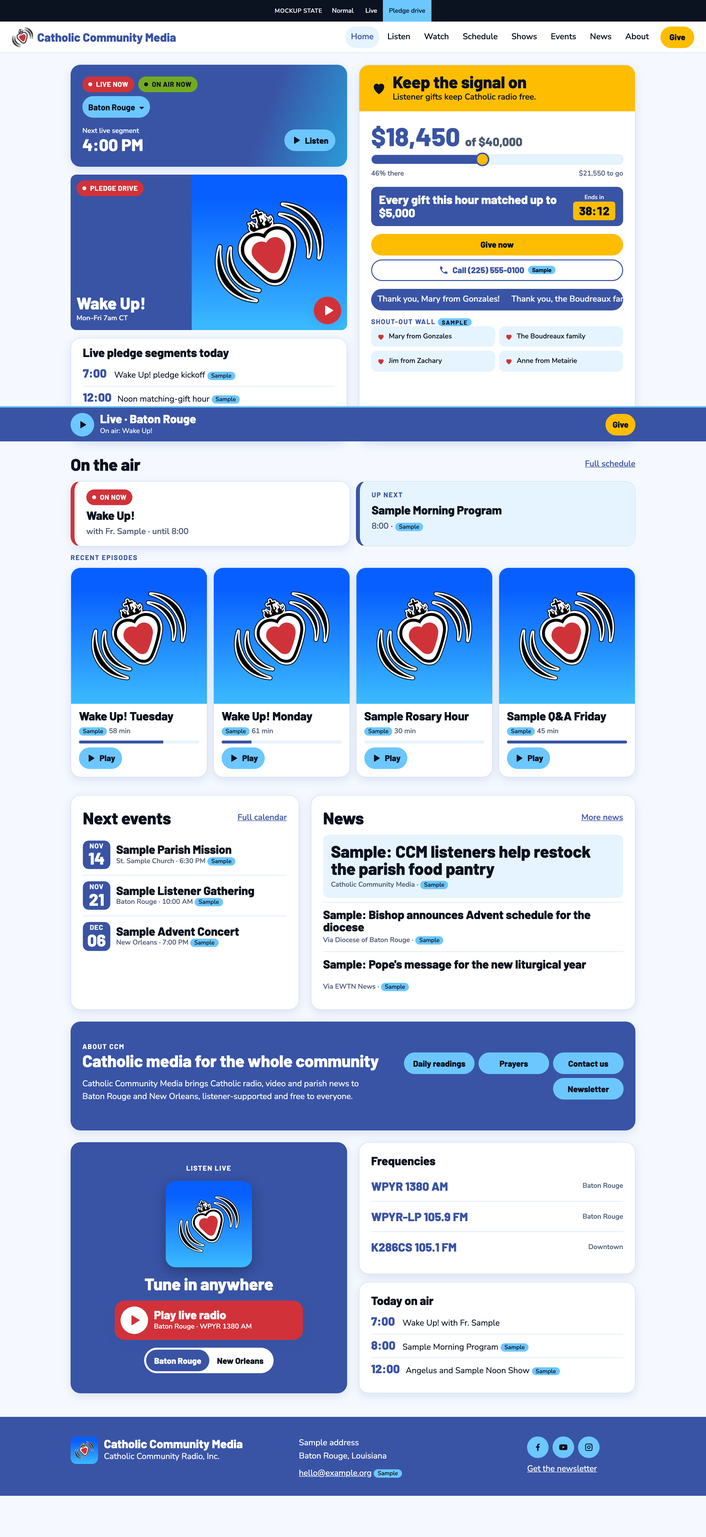
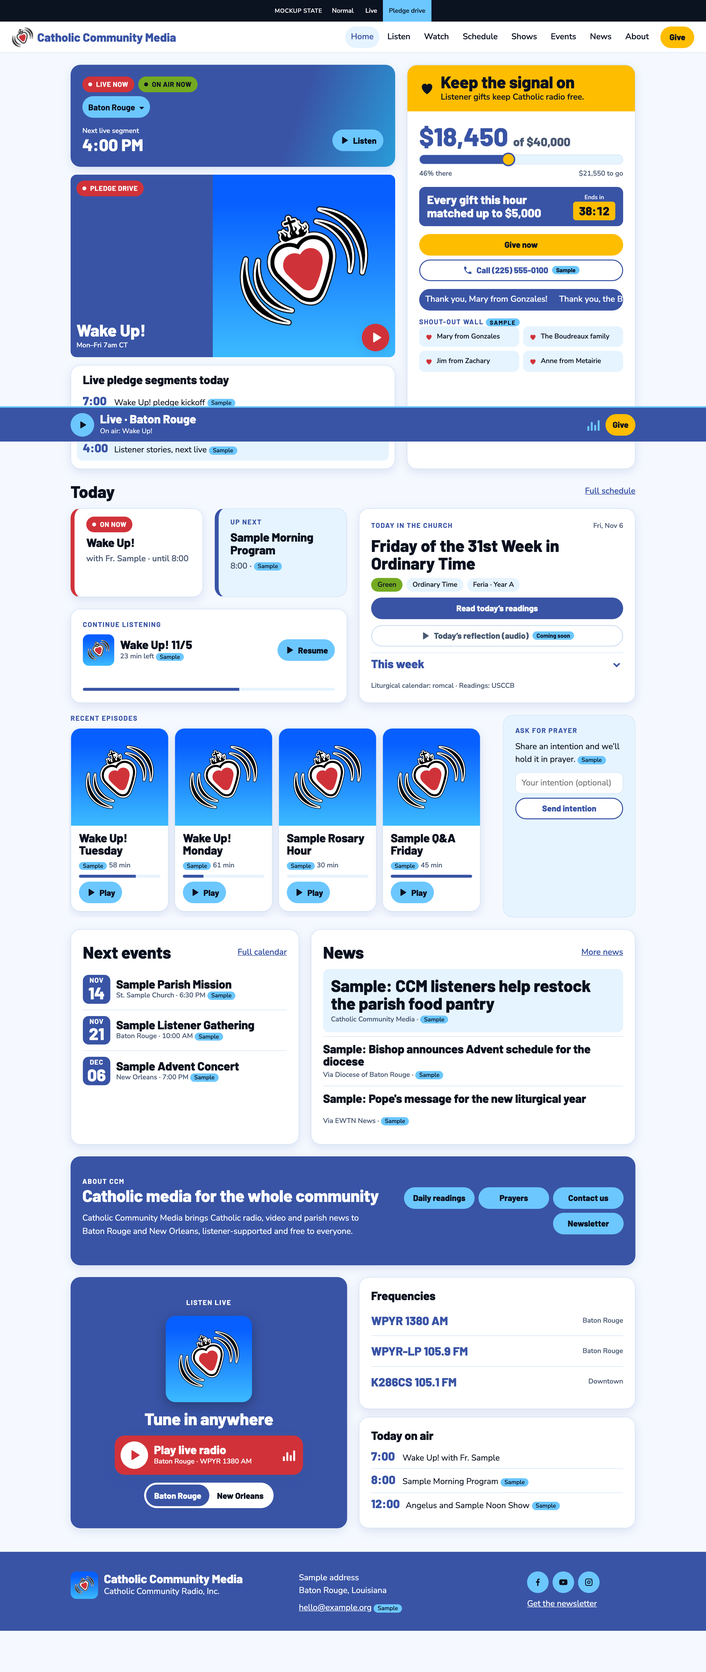
Signal direction: bento Today, Today in the Church, micro-interactions

diff --git a/public/design/c-signal/index.html b/public/design/c-signal/index.html
@@ -173,9 +173,26 @@ main > section { min-width: 0; scroll-margin-top: calc(var(--switch-h) + var(--h
 .play-big .disc svg { width: 1.75rem; height: 1.75rem; }
 .play-big b { display: block; font-family: var(--font-heading); font-weight: 800; font-size: var(--step-1); line-height: 1.1; }
 .play-big small { display: block; font-size: var(--step--1); font-weight: 600; }
-.ico-pause, .is-playing > .disc .ico-play, .is-playing > .ico-play { display: none; }
-.is-playing > .disc .ico-pause, .is-playing > .ico-pause { display: block; }
+/* Play/pause morph: both glyphs are stacked and cross-fade (transform + opacity only, no layout change) */
+.disc > svg, .pb-play > svg, .ps-play > svg, .morph > svg { grid-area: 1 / 1; transition: opacity 0.2s ease, transform 0.25s ease; }
+.morph { display: inline-grid; place-items: center; width: 1.25rem; height: 1.25rem; flex: none; }
+.ico-pause { opacity: 0; transform: scale(0.5) rotate(-60deg); }
+.is-playing .ico-play { opacity: 0; transform: scale(0.5) rotate(60deg); }
+.is-playing .ico-pause { opacity: 1; transform: none; }
 .play-big.is-playing .disc { animation: pulse 2s ease-out infinite; }
+/* Signal bars: static when paused, animated only while the mockup's playing state is on */
+.eq { display: inline-flex; align-items: flex-end; gap: 3px; height: 1.5rem; margin-left: auto; flex: none; }
+.eq i { width: 4px; height: 100%; border-radius: 2px; background: currentColor; transform-origin: bottom; transform: scaleY(var(--s, 0.4)); }
+.eq i:nth-child(2) { --s: 0.75; }
+.eq i:nth-child(3) { --s: 0.5; }
+.eq i:nth-child(4) { --s: 0.9; }
+html[data-playing="true"] .eq i { animation: eq 0.8s ease-in-out infinite alternate; }
+html[data-playing="true"] .eq i:nth-child(2) { animation-duration: 0.6s; animation-delay: -0.2s; }
+html[data-playing="true"] .eq i:nth-child(3) { animation-duration: 0.95s; animation-delay: -0.4s; }
+html[data-playing="true"] .eq i:nth-child(4) { animation-duration: 0.7s; animation-delay: -0.1s; }
+@keyframes eq { from { transform: scaleY(0.2); } to { transform: scaleY(1); } }
+[data-ui="player-bar"] .eq { display: none; color: var(--c-sky); }
+.sr-only { position: absolute; width: 1px; height: 1px; overflow: hidden; clip-path: inset(50%); white-space: nowrap; }
 @keyframes pulse { 0% { box-shadow: 0 0 0 0 rgb(255 255 255 / 0.6); } 100% { box-shadow: 0 0 0 1rem rgb(255 255 255 / 0); } }
 
 /* Video poster */
@@ -222,8 +239,14 @@ html[data-state="pledge"] .pledge-extra { display: flex; flex-direction: column;
 .give-body { padding: var(--space-5); display: flex; flex-direction: column; gap: var(--space-4); flex: 1; }
 .give-normal { display: flex; flex-direction: column; gap: var(--space-4); flex: 1; justify-content: center; gap: var(--space-5); }
 .amounts { display: grid; grid-template-columns: repeat(4, minmax(0, 1fr)); gap: var(--space-2); }
-.amounts .btn { background: var(--color-give); color: var(--color-give-contrast); font-size: var(--step-1); padding: 0; min-height: 3.5rem; border-radius: var(--radius-md); }
-.amounts .btn.other { background: var(--color-surface); color: var(--color-brand); border-color: var(--color-brand); font-size: var(--step-0); }
+.amounts .btn { background: var(--color-surface); color: var(--color-brand); border-color: var(--color-brand); font-size: var(--step-1); padding: 0; min-height: 3.5rem; border-radius: var(--radius-md); transition: transform 0.15s ease; }
+.amounts .btn.other { font-size: var(--step-0); }
+.amounts .btn[aria-pressed="true"] { background: var(--color-give); color: var(--color-give-contrast); border-color: var(--color-give-contrast); }
+/* Give confirm: the label swaps in place and the heart pulses (transform only) */
+.give-go { position: relative; min-height: 3.5rem; font-size: var(--step-1); }
+.give-go .heart { fill: currentColor; width: 1.5rem; height: 1.5rem; }
+.give-go.is-thanked .heart { animation: heart 0.7s ease-out 2; }
+@keyframes heart { 0%, 100% { transform: scale(1); } 40% { transform: scale(1.5); } 70% { transform: scale(0.95); } }
 .give-opts { display: grid; grid-template-columns: 1fr 1fr; gap: var(--space-2); }
 .give-opts .btn { background: var(--color-surface); color: var(--color-brand); border-color: var(--color-brand); font-size: var(--step--1); }
 .call-line {
@@ -270,6 +293,50 @@ html[data-state="pledge"] .pledge-panel { display: flex; }
 .meta { font-size: var(--step--1); color: var(--color-text-muted); font-weight: 600; }
 .bar { height: 0.375rem; width: 100%; background: var(--color-surface-2); border-radius: 999px; overflow: hidden; }
 .bar i { display: block; height: 100%; background: var(--color-brand); }
+
+/* Bento tiles (one question or action each) */
+.bento { display: grid; grid-template-columns: minmax(0, 1fr); gap: var(--space-4); }
+.bento > * { min-width: 0; }
+.tile { background: var(--color-surface); border: 1px solid var(--color-border); border-radius: var(--radius-lg); box-shadow: var(--shadow-1); padding: var(--space-5); display: flex; flex-direction: column; gap: var(--space-3); align-items: flex-start; }
+.tile > .btn { align-self: stretch; }
+.tile-calm { background: var(--color-surface-2); box-shadow: none; }
+.t-rail { display: block; }
+
+/* Today in the Church */
+.church-top { display: flex; justify-content: space-between; align-items: baseline; gap: var(--space-3); width: 100%; }
+.church-day { font-family: var(--font-heading); font-weight: 800; font-size: var(--step-2); line-height: 1.05; }
+.church-chips { display: flex; flex-wrap: wrap; gap: var(--space-2); }
+.lit-chip, .chip-plain { display: inline-flex; align-items: center; min-height: 1.75rem; padding: 0 var(--space-3); border-radius: 999px; font-size: var(--step--1); font-weight: 600; white-space: nowrap; }
+.lit-chip { background: var(--lit-bg); color: var(--lit-fg); border: 1px solid var(--lit-bd, transparent); }
+.lit-chip[data-lit="green"] { --lit-bg: var(--color-success); --lit-fg: var(--color-success-contrast); }
+.lit-chip[data-lit="white"] { --lit-bg: var(--color-surface); --lit-fg: var(--color-text); --lit-bd: var(--color-text-muted); }
+.lit-chip[data-lit="red"] { --lit-bg: var(--color-live); --lit-fg: var(--color-live-contrast); }
+.chip-plain { background: var(--color-surface-2); color: var(--color-text); }
+.btn-reflect { border-color: var(--color-border); background: var(--color-surface); color: var(--color-text-muted); }
+.btn-reflect:disabled { cursor: not-allowed; }
+.week { width: 100%; border-top: 1px solid var(--color-border); }
+.week summary { display: flex; align-items: center; justify-content: space-between; min-height: 2.75rem; cursor: pointer; font-family: var(--font-heading); font-weight: 800; font-size: var(--step-1); color: var(--color-brand); list-style: none; }
+.week summary::-webkit-details-marker { display: none; }
+.week summary::after { content: ""; width: 0.6rem; height: 0.6rem; border: solid currentColor; border-width: 0 3px 3px 0; transform: rotate(45deg); transition: transform 0.2s ease; margin-right: var(--space-2); }
+.week[open] summary::after { transform: rotate(-135deg); }
+.week li { display: grid; grid-template-columns: 3.5rem minmax(0, 1fr) auto; gap: var(--space-3); align-items: center; padding: var(--space-2) 0; border-top: 1px solid var(--color-border); }
+.week time { font-family: var(--font-heading); font-weight: 800; color: var(--color-brand); line-height: 1.1; }
+.week .wk-name { font-weight: 600; line-height: 1.3; }
+.week .wk-name small { display: block; color: var(--color-text-muted); font-size: var(--step--1); }
+.tile .credit { margin-top: 0; }
+
+/* Continue listening */
+.cont-row { display: flex; align-items: center; gap: var(--space-3); width: 100%; }
+.cont-row img { width: 4rem; height: 4rem; border-radius: var(--radius-md); object-fit: cover; flex: none; }
+.cont-row > div { flex: 1; min-width: 0; }
+.cont-title { font-family: var(--font-heading); font-weight: 800; font-size: var(--step-1); line-height: 1.1; }
+
+/* Ask for prayer */
+.pray-form { display: grid; gap: var(--space-2); width: 100%; }
+.pray-form input { min-height: 2.75rem; padding: 0 var(--space-3); border: 1px solid var(--color-border); border-radius: var(--radius-md); background: var(--color-surface); color: var(--color-text); font: inherit; width: 100%; }
+.pray-form .btn { position: relative; }
+.pray-form .check { position: absolute; right: var(--space-3); opacity: 0; transform: scale(0.8); transition: opacity 0.5s ease, transform 0.5s ease; }
+.pray-form.is-sent .check { opacity: 1; transform: none; }
 
 /* Events & news */
 .event { display: flex; gap: var(--space-3); align-items: center; padding: var(--space-3) 0; border-top: 1px solid var(--color-border); }
@@ -375,7 +442,8 @@ address { font-style: normal; }
   .brand { margin-right: auto; }
   .header-give { order: 3; }
   main { grid-template-columns: repeat(12, minmax(0, 1fr)); gap: var(--space-5); padding: var(--space-5); }
-  [data-section="live"], [data-section="give"] { grid-column: span 6; }
+  [data-section="live"] { grid-column: span 7; }
+  [data-section="give"] { grid-column: span 5; }
   [data-section="on-now"], [data-section="more"], main > .listen { grid-column: 1 / -1; }
   [data-section="events"] { grid-column: span 5; }
   [data-section="news"] { grid-column: span 7; }
@@ -388,9 +456,10 @@ address { font-style: normal; }
   html[data-state="pledge"] .live-card { flex: 0 0 auto; padding: var(--space-5); }
   html[data-state="pledge"] .live-card > * { max-width: none; }
   html[data-state="pledge"] .live-card .next-seg { max-width: none; }
-  .now-row { grid-template-columns: 1fr 1fr; }
-  .rail { display: grid; grid-template-columns: repeat(4, minmax(0, 1fr)); overflow: visible; }
-  .ep { flex: none; }
+  .bento { grid-template-columns: repeat(2, minmax(0, 1fr)); gap: var(--space-5); grid-template-areas: "now up" "church church" "cont pray" "rail rail"; }
+  .t-now { grid-area: now; } .t-up { grid-area: up; } .t-church { grid-area: church; } .t-cont { grid-area: cont; } .t-pray { grid-area: pray; } .t-rail { grid-area: rail; }
+  .ep { flex: 0 0 12.5rem; }
+  [data-ui="player-bar"] .eq { display: inline-flex; margin-left: 0; }
   .listen { grid-template-columns: 1fr 1fr; gap: var(--space-5); align-items: stretch; }
   .listen-player { padding: var(--space-6) var(--space-5); justify-content: center; }
   .listen-info { grid-template-rows: auto 1fr; }
@@ -402,6 +471,9 @@ address { font-style: normal; }
   .site-footer { padding-inline: var(--space-4); }
   .brand span { display: block; }
   [data-ui="player-bar"] { padding-inline: max(var(--space-5), calc((100vw - 75rem) / 2 + var(--space-5))); }
+}
+@media (min-width: 1024px) {
+  .bento { grid-template-columns: repeat(4, minmax(0, 1fr)); grid-template-areas: "now up church church" "cont cont church church" "rail rail rail pray"; }
 }
 @media (min-width: 768px) and (max-width: 1023px) {
   .brand span { display: none; }
@@ -420,6 +492,7 @@ address { font-style: normal; }
   <symbol id="i-play" viewBox="0 0 24 24"><path d="M7 4.5v15a1 1 0 0 0 1.5.86l12-7.5a1 1 0 0 0 0-1.72l-12-7.5A1 1 0 0 0 7 4.5z"/></symbol>
   <symbol id="i-pause" viewBox="0 0 24 24"><path d="M6 4h4v16H6zM14 4h4v16h-4z"/></symbol>
   <symbol id="i-heart" viewBox="0 0 24 24"><path d="M12 21s-8-5.2-8-11.2A4.6 4.6 0 0 1 8.6 5c1.4 0 2.6.7 3.4 1.9C12.8 5.7 14 5 15.4 5A4.6 4.6 0 0 1 20 9.8C20 15.8 12 21 12 21z"/></symbol>
+  <symbol id="i-check" viewBox="0 0 24 24"><path d="M9.5 16.2 5.3 12l-1.9 1.9 6.1 6.1L21 8.3l-1.9-1.9z"/></symbol>
   <symbol id="i-tv" viewBox="0 0 24 24"><path d="M3 5h18a1 1 0 0 1 1 1v11a1 1 0 0 1-1 1h-6.5l1.5 2.5v.5H8v-.5L9.5 18H3a1 1 0 0 1-1-1V6a1 1 0 0 1 1-1zm1 2v9h16V7z"/></symbol>
   <symbol id="i-phone" viewBox="0 0 24 24"><path d="M6.6 10.8a15 15 0 0 0 6.6 6.6l2.2-2.2a1 1 0 0 1 1-.25 11.4 11.4 0 0 0 3.6.57 1 1 0 0 1 1 1V20a1 1 0 0 1-1 1A17 17 0 0 1 3 4a1 1 0 0 1 1-1h3.5a1 1 0 0 1 1 1c0 1.25.2 2.45.57 3.6a1 1 0 0 1-.25 1z"/></symbol>
   <symbol id="i-menu" viewBox="0 0 24 24"><path d="M3 6h18v2.5H3zm0 4.75h18v2.5H3zM3 15.5h18V18H3z"/></symbol>
@@ -439,6 +512,7 @@ address { font-style: normal; }
 </div>
 
 <div id="page">
+<!-- Official CCM logo (Avenir Condensed wordmark) to come from Christopher -->
 <header class="site-header">
   <a class="brand" href="#top">
     <img src="../../icons/ccr-logo-512x512.png" alt="" width="44" height="44">
@@ -486,11 +560,12 @@ address { font-style: normal; }
         <button type="button" class="play-big play-big-live" data-play aria-pressed="false">
           <span class="disc"><svg class="ico-play" aria-hidden="true"><use href="#i-play"/></svg><svg class="ico-pause" aria-hidden="true"><use href="#i-pause"/></svg></span>
           <span><b data-play-label>Play live radio</b><small data-market-line>Baton Rouge &middot; WPYR 1380 AM</small></span>
+          <span class="eq" aria-hidden="true"><i></i><i></i><i></i><i></i></span>
         </button>
 
         <div class="next-seg">
           <div><span class="lbl">Next live segment</span><b>4:00 PM</b></div>
-          <button type="button" class="btn btn-signal btn-sm" data-play style="margin-left:auto"><svg class="icon ico-play" aria-hidden="true"><use href="#i-play"/></svg><svg class="icon ico-pause" aria-hidden="true"><use href="#i-pause"/></svg>Listen</button>
+          <button type="button" class="btn btn-signal btn-sm" data-play style="margin-left:auto"><span class="morph"><svg class="ico-play" aria-hidden="true"><use href="#i-play"/></svg><svg class="ico-pause" aria-hidden="true"><use href="#i-pause"/></svg></span>Listen</button>
         </div>
       </div>
 
@@ -527,11 +602,13 @@ address { font-style: normal; }
       <div class="give-body">
         <div class="give-normal">
           <div class="amounts" role="group" aria-label="Gift amount">
-            <button type="button" class="btn">$25</button>
-            <button type="button" class="btn">$50</button>
-            <button type="button" class="btn">$100</button>
-            <button type="button" class="btn other">Other</button>
+            <button type="button" class="btn" data-amount="$25" aria-pressed="false">$25</button>
+            <button type="button" class="btn" data-amount="$50" aria-pressed="true">$50</button>
+            <button type="button" class="btn" data-amount="$100" aria-pressed="false">$100</button>
+            <button type="button" class="btn other" data-amount="" aria-pressed="false">Other</button>
           </div>
+          <button type="button" class="btn btn-give btn-block give-go" data-give-go><svg class="icon heart" aria-hidden="true"><use href="#i-heart"/></svg><span data-give-label>Give $50</span></button>
+          <p class="sr-only" role="status" data-give-status></p>
           <div class="give-opts">
             <button type="button" class="btn">Give monthly</button>
             <button type="button" class="btn">Join a club</button>
@@ -574,25 +651,76 @@ address { font-style: normal; }
   </section>
 
   <section data-section="on-now" aria-labelledby="onnow-h">
-    <div class="section-head"><h2 id="onnow-h">On the air</h2><a class="more-link" href="#listen">Full schedule</a></div>
-    <div class="now-row">
-      <article class="now-card">
+    <div class="section-head"><h2 id="onnow-h">Today</h2><a class="more-link" href="#listen">Full schedule</a></div>
+    <div class="bento">
+      <article class="now-card t-now">
         <span class="chip chip-live"><i aria-hidden="true"></i>On now</span>
         <h3>Wake Up!</h3>
         <p class="when">with Fr. Sample &middot; until 8:00</p>
       </article>
-      <article class="now-card up">
+      <article class="now-card up t-up">
         <span class="eyebrow">Up next</span>
         <h3>Sample Morning Program</h3>
         <p class="when">8:00 &middot; <span class="tag">Sample</span></p>
       </article>
-    </div>
-    <h3 class="eyebrow rail-h" id="rail-h">Recent episodes</h3>
-    <div class="rail" tabindex="0" role="region" aria-labelledby="rail-h">
+
+      <article class="tile t-cont" aria-labelledby="cont-h">
+        <h3 class="eyebrow" id="cont-h">Continue listening</h3>
+        <div class="cont-row">
+          <img src="../../icons/ccr-logo-blue-bg-512x512.png" alt="">
+          <div>
+            <p class="cont-title">Wake Up! 11/5</p>
+            <p class="meta">23 min left <span class="tag">Sample</span></p>
+          </div>
+          <button type="button" class="btn btn-signal btn-sm" data-episode aria-pressed="false" aria-label="Resume Wake Up! 11/5"><span class="morph"><svg class="ico-play" aria-hidden="true"><use href="#i-play"/></svg><svg class="ico-pause" aria-hidden="true"><use href="#i-pause"/></svg></span><span data-episode-label>Resume</span></button>
+        </div>
+        <div class="bar" role="progressbar" aria-label="Episode progress" aria-valuemin="0" aria-valuemax="100" aria-valuenow="62" style="margin-top:auto"><i style="width:62%"></i></div>
+      </article>
+
+      <article class="tile t-church" aria-labelledby="church-h">
+        <div class="church-top"><h3 class="eyebrow" id="church-h">Today in the Church</h3><span class="meta">Fri, Nov 6</span></div>
+        <p class="church-day">Friday of the 31st Week in Ordinary Time</p>
+        <div class="church-chips">
+          <span class="lit-chip" data-lit="green">Green</span>
+          <span class="chip-plain">Ordinary Time</span>
+          <span class="chip-plain">Feria &middot; Year A</span>
+        </div>
+        <a class="btn btn-brand" href="https://bible.usccb.org/bible/readings/110626.cfm" target="_blank" rel="noopener noreferrer">Read today&rsquo;s readings<span class="sr-only"> (opens in a new tab)</span></a>
+        <!-- Future hook: "Today's reflection (audio)". Enable and wire to the audio player once a daily reflection feed exists. -->
+        <button type="button" class="btn btn-reflect" disabled aria-disabled="true"><svg class="icon" aria-hidden="true"><use href="#i-play"/></svg>Today&rsquo;s reflection (audio) <span class="tag">Coming soon</span></button>
+        <details class="week">
+          <summary>This week</summary>
+          <ul>
+            <li><time datetime="2026-11-08">Sun 8</time><span class="wk-name">32nd Sunday in Ordinary Time<small>Sunday</small></span><span class="lit-chip" data-lit="green">Green</span></li>
+            <li><time datetime="2026-11-09">Mon 9</time><span class="wk-name">Dedication of the Lateran Basilica<small>Feast</small></span><span class="lit-chip" data-lit="white">White</span></li>
+            <li><time datetime="2026-11-10">Tue 10</time><span class="wk-name">St. Leo the Great, Pope and Doctor<small>Memorial</small></span><span class="lit-chip" data-lit="white">White</span></li>
+            <li><time datetime="2026-11-11">Wed 11</time><span class="wk-name">St. Martin of Tours, Bishop<small>Memorial</small></span><span class="lit-chip" data-lit="white">White</span></li>
+            <li><time datetime="2026-11-12">Thu 12</time><span class="wk-name">St. Josaphat, Bishop and Martyr<small>Memorial</small></span><span class="lit-chip" data-lit="red">Red</span></li>
+          </ul>
+        </details>
+        <p class="credit">Liturgical calendar: romcal &middot; Readings: USCCB</p>
+      </article>
+
+      <div class="t-rail">
+        <h3 class="eyebrow rail-h" id="rail-h">Recent episodes</h3>
+        <div class="rail" tabindex="0" role="region" aria-labelledby="rail-h">
       <article class="ep"><div class="ep-art"><img src="../../icons/ccr-logo-blue-bg-512x512.png" alt=""></div><div class="ep-body"><h3>Wake Up! Tuesday</h3><p class="meta"><span class="tag">Sample</span> 58 min</p><div class="bar" aria-hidden="true"><i style="width:70%"></i></div><button type="button" class="btn btn-signal btn-sm" aria-label="Play Wake Up! Tuesday"><svg class="icon" aria-hidden="true"><use href="#i-play"/></svg>Play</button></div></article>
       <article class="ep"><div class="ep-art"><img src="../../icons/ccr-logo-blue-bg-512x512.png" alt=""></div><div class="ep-body"><h3>Wake Up! Monday</h3><p class="meta"><span class="tag">Sample</span> 61 min</p><div class="bar" aria-hidden="true"><i style="width:25%"></i></div><button type="button" class="btn btn-signal btn-sm" aria-label="Play Wake Up! Monday"><svg class="icon" aria-hidden="true"><use href="#i-play"/></svg>Play</button></div></article>
       <article class="ep"><div class="ep-art"><img src="../../icons/ccr-logo-blue-bg-512x512.png" alt=""></div><div class="ep-body"><h3>Sample Rosary Hour</h3><p class="meta"><span class="tag">Sample</span> 30 min</p><div class="bar" aria-hidden="true"><i style="width:0"></i></div><button type="button" class="btn btn-signal btn-sm" aria-label="Play Sample Rosary Hour"><svg class="icon" aria-hidden="true"><use href="#i-play"/></svg>Play</button></div></article>
       <article class="ep"><div class="ep-art"><img src="../../icons/ccr-logo-blue-bg-512x512.png" alt=""></div><div class="ep-body"><h3>Sample Q&amp;A Friday</h3><p class="meta"><span class="tag">Sample</span> 45 min</p><div class="bar" aria-hidden="true"><i style="width:100%"></i></div><button type="button" class="btn btn-signal btn-sm" aria-label="Play Sample Q&amp;A Friday"><svg class="icon" aria-hidden="true"><use href="#i-play"/></svg>Play</button></div></article>
+    </div>
+      </div>
+
+      <article class="tile tile-calm t-pray" aria-labelledby="pray-h">
+        <h3 class="eyebrow" id="pray-h">Ask for prayer</h3>
+        <p>Share an intention and we&rsquo;ll hold it in prayer. <span class="tag">Sample</span></p>
+        <form class="pray-form" data-pray>
+          <label class="sr-only" for="pray-in">Your intention (optional)</label>
+          <input id="pray-in" type="text" placeholder="Your intention (optional)" autocomplete="off">
+          <button type="submit" class="btn btn-ghost btn-block"><span data-pray-label>Send intention</span><svg class="icon check" aria-hidden="true"><use href="#i-check"/></svg></button>
+          <p class="sr-only" role="status" data-pray-status></p>
+        </form>
+      </article>
     </div>
   </section>
 
@@ -640,6 +768,7 @@ address { font-style: normal; }
       <button type="button" class="play-big" data-play aria-pressed="false" style="max-width:24rem">
         <span class="disc"><svg class="ico-play" aria-hidden="true"><use href="#i-play"/></svg><svg class="ico-pause" aria-hidden="true"><use href="#i-pause"/></svg></span>
         <span><b data-play-label>Play live radio</b><small data-market-line>Baton Rouge &middot; WPYR 1380 AM</small></span>
+        <span class="eq" aria-hidden="true"><i></i><i></i><i></i><i></i></span>
       </button>
       <div class="seg-control" role="group" aria-label="Market">
         <button type="button" data-market="Baton Rouge" aria-pressed="true">Baton Rouge</button>
@@ -690,6 +819,7 @@ address { font-style: normal; }
 <div data-ui="player-bar" role="region" aria-label="Player">
   <button type="button" class="pb-play" data-play aria-pressed="false" aria-label="Play live radio"><svg class="ico-play" aria-hidden="true"><use href="#i-play"/></svg><svg class="ico-pause" aria-hidden="true"><use href="#i-pause"/></svg></button>
   <button type="button" class="pb-title" data-ui="player-open" aria-haspopup="dialog"><strong data-bar-title>Live &middot; Baton Rouge</strong><small>On air: Wake Up!</small></button>
+  <span class="eq" aria-hidden="true"><i></i><i></i><i></i><i></i></span>
   <a class="btn btn-give btn-sm" href="#give">Give</a>
 </div>
 
@@ -745,9 +875,61 @@ address { font-style: normal; }
       b.classList.toggle('is-playing', playing);
       if (b.hasAttribute('aria-label')) b.setAttribute('aria-label', playing ? 'Pause live radio' : 'Play live radio');
     });
+    root.setAttribute('data-playing', String(playing));
     $('[data-play-label]').forEach(function (l) { l.textContent = playing ? 'Pause live radio' : 'Play live radio'; });
   }
   $('[data-play]').forEach(function (b) { b.addEventListener('click', function () { playing = !playing; renderPlay(); }); });
+
+  var reduced = window.matchMedia && matchMedia('(prefers-reduced-motion: reduce)').matches;
+  function buzz() { if (!reduced) { try { navigator.vibrate?.(30); } catch (e) {} } }
+
+  // Continue listening: its own play/pause (sample), separate from live radio
+  $('[data-episode]').forEach(function (b) {
+    b.addEventListener('click', function () {
+      var on = b.getAttribute('aria-pressed') !== 'true';
+      b.setAttribute('aria-pressed', String(on));
+      b.classList.toggle('is-playing', on);
+      b.setAttribute('aria-label', (on ? 'Pause' : 'Resume') + ' Wake Up! 11/5');
+      $('[data-episode-label]', b)[0].textContent = on ? 'Pause' : 'Resume';
+    });
+  });
+
+  // Give: pick an amount, then commit
+  var amt = '$50', goBtn = $('[data-give-go]')[0], goLabel = $('[data-give-label]')[0], giveStatus = $('[data-give-status]')[0], thanksTimer;
+  function giveText() { return amt ? 'Give ' + amt : 'Give another amount'; }
+  $('[data-amount]').forEach(function (b) {
+    b.addEventListener('click', function () {
+      amt = b.getAttribute('data-amount');
+      $('[data-amount]').forEach(function (o) { o.setAttribute('aria-pressed', String(o === b)); });
+      if (!goBtn.classList.contains('is-thanked')) goLabel.textContent = giveText();
+    });
+  });
+  if (goBtn) goBtn.addEventListener('click', function () {
+    // Stands in for a completed Zeffy gift (the real flow hands off to Zeffy checkout)
+    clearTimeout(thanksTimer);
+    goBtn.classList.remove('is-thanked');
+    void goBtn.offsetWidth;
+    goBtn.classList.add('is-thanked');
+    goLabel.textContent = 'Thank you!';
+    giveStatus.textContent = 'Thank you for your gift!';
+    buzz();
+    thanksTimer = setTimeout(function () { goBtn.classList.remove('is-thanked'); goLabel.textContent = giveText(); giveStatus.textContent = ''; }, 2600);
+  });
+
+  // Ask for prayer: gentle confirmation (sample, nothing is sent)
+  var pray = $('[data-pray]')[0];
+  if (pray) pray.addEventListener('submit', function (e) {
+    e.preventDefault();
+    pray.classList.add('is-sent');
+    $('[data-pray-label]', pray)[0].textContent = 'Intention received';
+    $('[data-pray-status]', pray)[0].textContent = 'Your intention was received.';
+    setTimeout(function () {
+      pray.classList.remove('is-sent');
+      $('[data-pray-label]', pray)[0].textContent = 'Send intention';
+      $('[data-pray-status]', pray)[0].textContent = '';
+      pray.reset();
+    }, 4000);
+  });
 
   // Market
   var lines = { 'Baton Rouge': 'Baton Rouge · WPYR 1380 AM', 'New Orleans': 'New Orleans · 690 AM' };

diff --git a/scripts/design-shots.ts b/scripts/design-shots.ts
@@ -8,7 +8,7 @@ const base = 'http://localhost:3000'
 const browser = await chromium.launch()
 for (const [name, width, height] of [['phone', 390, 844], ['desktop', 1440, 900]] as const) {
   const context = await browser.newContext({ viewport: { width, height }, deviceScaleFactor: 2 })
-  await context.addCookies([{ name: LAB_COOKIE, value: await passcodeToken('test-pass'), url: base }])
+  await context.addCookies([{ name: LAB_COOKIE, value: await passcodeToken(process.env.LAB_PASSCODE ?? 'test-pass'), url: base }])
   const page = await context.newPage()
   for (const state of ['normal', 'pledge'] as const) {
     await page.goto(`${base}/design/${id}/index.html`)

diff --git a/docs/design/directions.md b/docs/design/directions.md
@@ -126,3 +126,9 @@ Screenshots: `b-parish-phone-normal.png`, `b-parish-phone-pledge.png`, `b-parish
 - **Green #74aa21:** only the small "On air now" chips.
 
 Screenshots: `c-signal-phone-normal.png`, `c-signal-phone-pledge.png`, `c-signal-desktop-normal.png`, `c-signal-desktop-pledge.png`.
+
+**2027 trends added (Direction C)**
+
+- **Bento "Today":** at 768px and up the home is a grid of bounded tiles (main is a 12-column grid; the `on-now` section holds an inner bento with named areas). Each tile answers one question or offers one action: On now, Up next, Today in the Church, Continue listening, Recent episodes, Ask for prayer. On phones the tiles stack in the AV-first order the tests check (live, give, on-now, events, news).
+- **Today in the Church:** day name, a small liturgical-color chip (green stays a small chip; white is a light chip with a border; red is the brand red), season and rank, a link to the USCCB readings (no reading text reproduced), a "This week" `<details>` list, and a disabled "Today's reflection (audio)" hook marked Coming soon. Data is real romcal 1.3.0 (US calendar) for Fri Nov 6 2026 and the days after; credit line "Liturgical calendar: romcal · Readings: USCCB".
+- **Honest micro-interactions:** the play button morphs between play and pause and the signal bars animate only while the mockup is in its playing state. "Give $X" shows a heart pulse and "Thank you!" (stands in for a completed Zeffy gift) and calls `navigator.vibrate?.(30)`. "Ask for prayer" shows a soft check. All motion is transform/opacity only and is off under `prefers-reduced-motion: reduce`.
